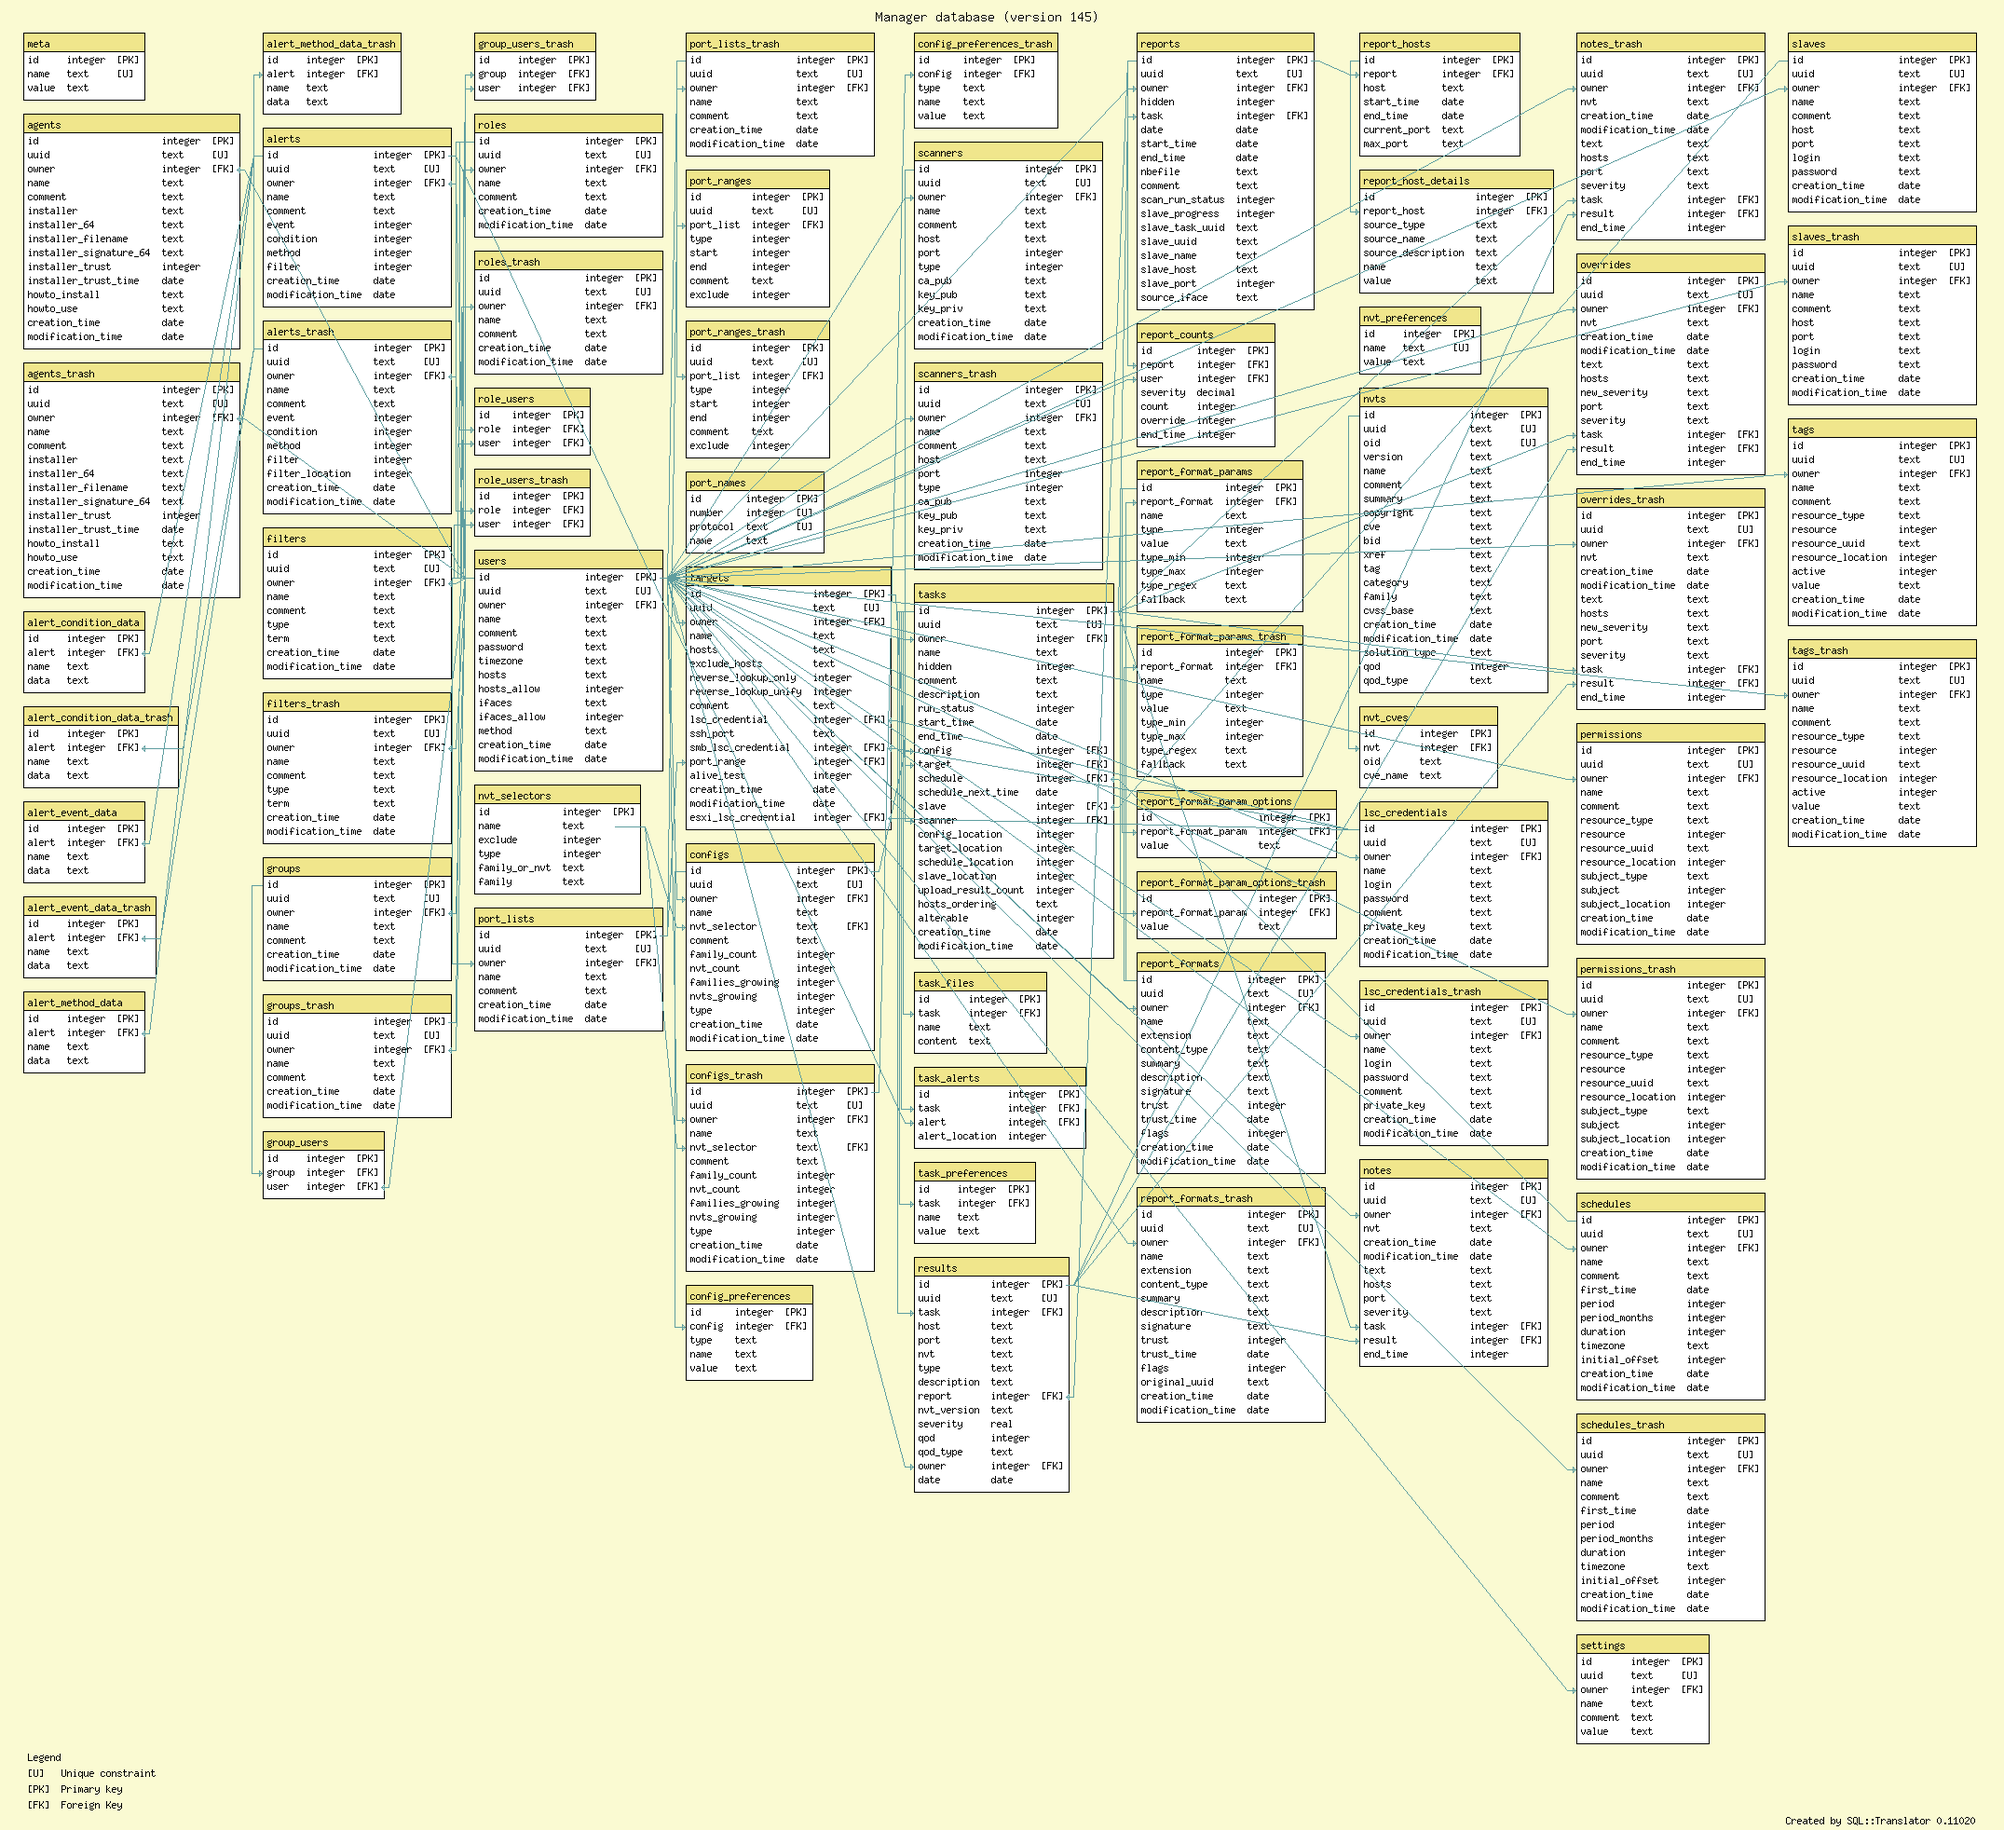
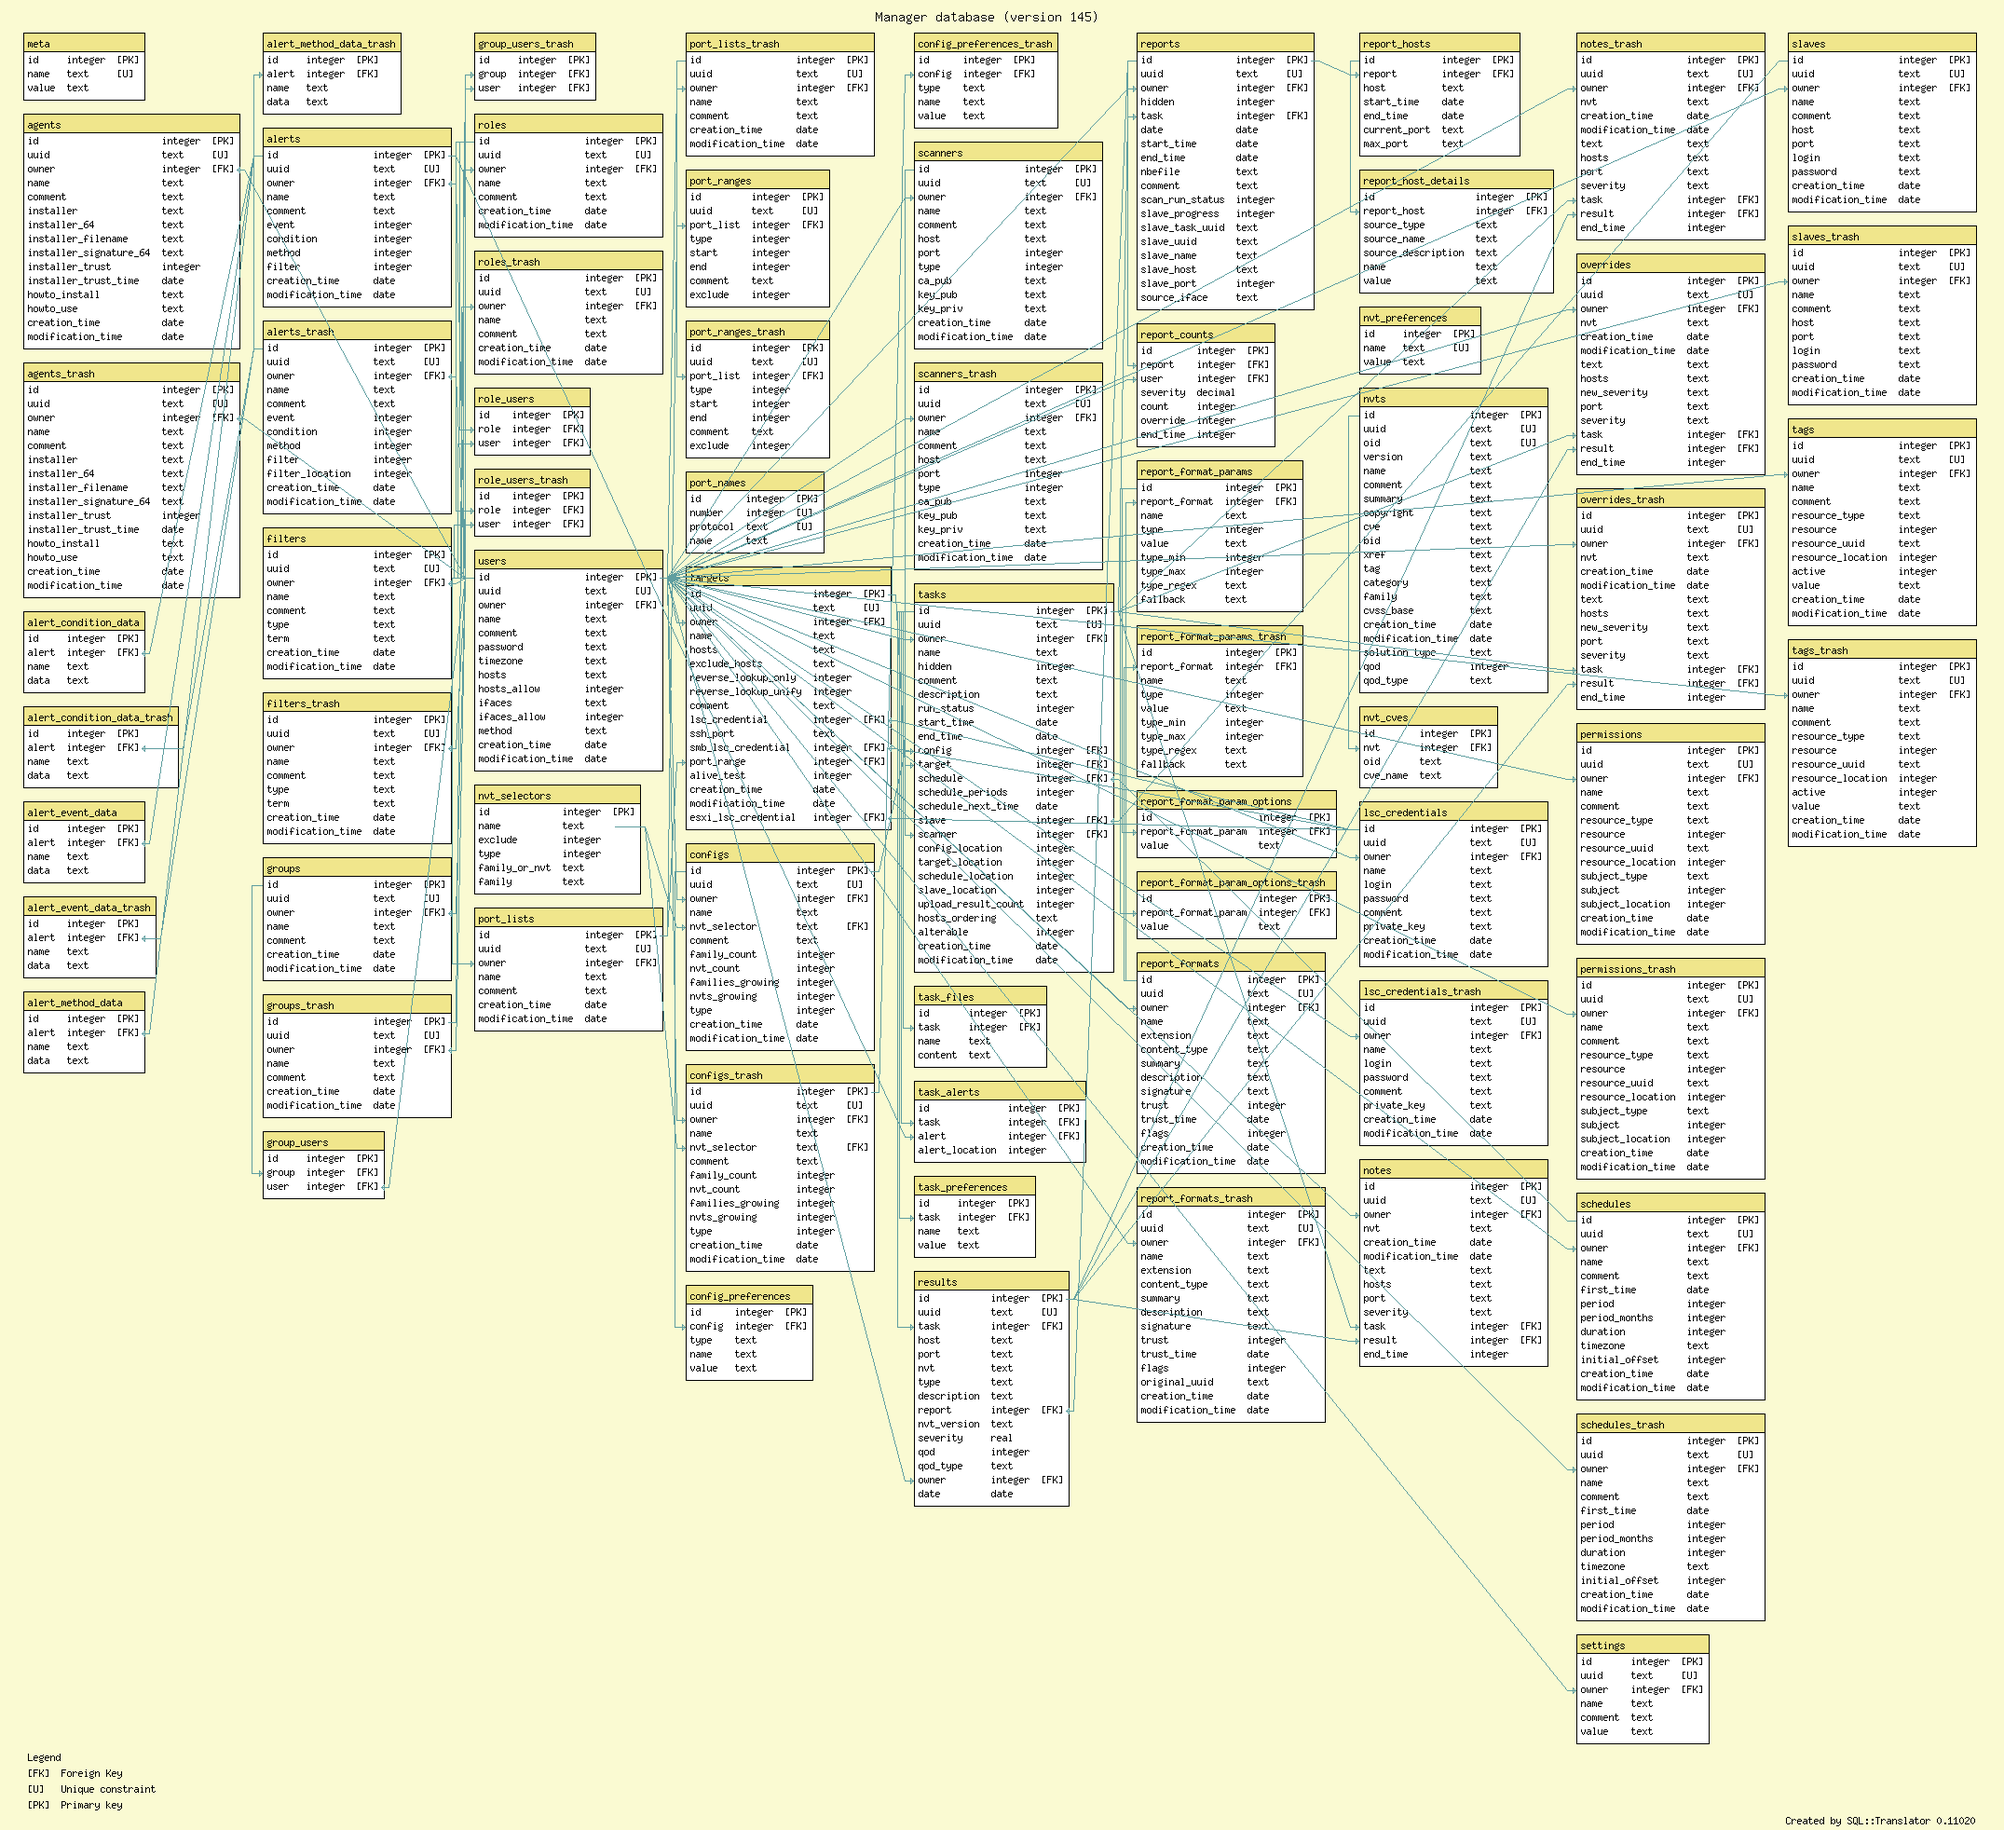
* src/schema_formats/XML/OMP.xml.in (get_tasks, create_task) 	(modify_task): Add SCHEDULE_PERIODS.
* doc/omp.html, doc/omp.rnc: Update from source.

	* doc/db_postgres.sql (tasks): Add schedule_periods.

	* doc/db.png: Update from source.

git-svn-id: svn+ssh://scm.wald.intevation.org/openvas/trunk/openvas-manager@21611 423fd1db-d629-0410-8442-d21db03e70f4

Changed region(s): [[0.4361, 0.4659, 0.5607, 0.7144], [0.4361, 0.8075, 0.5295, 0.8386], [0.0311, 0.9628, 0.0623, 0.9939]]

diff --git a/doc/omp.html b/doc/omp.html
@@ -8725,6 +8725,11 @@ create_target_port_list
           </li></ul>
 </li>
 <li>
+              &lt;<b>schedule_periods</b>&gt;
+              ?<div style="margin-left: 15px; display: inline;">A limit to the number of times the task will be scheduled, or 0 for no limit.</div>
+<ul style="list-style: none"></ul>
+</li>
+<li>
               &lt;<b>slave</b>&gt;
               ?<div style="margin-left: 15px; display: inline;">Slave that the task will run on.</div>
 <ul style="list-style: none"><li>
@@ -8788,6 +8793,7 @@ create_target_port_list
        &amp; create_task_scanner
        &amp; create_task_alert*
        &amp; create_task_schedule?
+       &amp; create_task_schedule_periods?
        &amp; create_task_slave?
        &amp; create_task_observers?
        &amp; create_task_preferences?
@@ -8851,6 +8857,12 @@ create_task_schedule
  = element schedule
      {
        attribute id { uuid }
+     }
+
+create_task_schedule_periods
+ = element schedule_periods
+     {
+       integer
      }
 
 create_task_slave
@@ -22934,11 +22946,18 @@ get_report_formats_response_report_format_count_page
 <li>
               &lt;<b>qod</b>&gt;
               <div style="margin-left: 15px; display: inline;">The quality of detection (QoD) of the NVT.</div>
-<ul style="list-style: none"><li>
+<ul style="list-style: none">
+<li>
               &lt;<b>value</b>&gt;
               <div style="margin-left: 15px; display: inline;">The numeric QoD value.</div>
 <ul style="list-style: none"></ul>
-</li></ul>
+</li>
+<li>
+              &lt;<b>type</b>&gt;
+              <div style="margin-left: 15px; display: inline;">The QoD type.</div>
+<ul style="list-style: none"></ul>
+</li>
+</ul>
 </li>
 <li>
               &lt;<b>description</b>&gt;
@@ -23314,6 +23333,7 @@ get_results_response_result_qod
  = element qod
      {
        get_results_response_result_qod_value
+       &amp; get_results_response_result_qod_type
      }
 
 get_results_response_result_qod_value
@@ -28066,6 +28086,11 @@ get_targets_response_target_count_page
 </ul>
 </li>
 <li>
+              &lt;<b>schedule_periods</b>&gt;
+              <div style="margin-left: 15px; display: inline;">A limit to the number of times the task will be scheduled, or 0 for no limit.</div>
+<ul style="list-style: none"></ul>
+</li>
+<li>
               &lt;<b>slave</b>&gt;
               <div style="margin-left: 15px; display: inline;">The slave that the task will run on.</div>
 <ul style="list-style: none">
@@ -28504,6 +28529,7 @@ get_tasks_response_task
        &amp; get_tasks_response_task_alert
        &amp; get_tasks_response_task_observers
        &amp; get_tasks_response_task_schedule
+       &amp; get_tasks_response_task_schedule_periods
        &amp; get_tasks_response_task_slave
        &amp; get_tasks_response_task_report_count
        &amp; get_tasks_response_task_trend
@@ -28791,6 +28817,12 @@ get_tasks_response_task_schedule_trash
  = element trash
      {
        boolean
+     }
+
+get_tasks_response_task_schedule_periods
+ = element schedule_periods
+     {
+       integer
      }
 
 get_tasks_response_task_slave
@@ -33629,6 +33661,11 @@ modify_tag_active
           </li></ul>
 </li>
 <li>
+              &lt;<b>schedule_periods</b>&gt;
+              <div style="margin-left: 15px; display: inline;">A limit to the number of times the task will be scheduled, or 0 for no limit.</div>
+<ul style="list-style: none"></ul>
+</li>
+<li>
               &lt;<b>scanner</b>&gt;
               <div style="margin-left: 15px; display: inline;">Task scanner.</div>
 <ul style="list-style: none"><li>
@@ -33687,6 +33724,7 @@ modify_tag_active
            | modify_task_observers
            | modify_task_preferences
            | modify_task_schedule
+           | modify_task_schedule_periods
            | modify_task_scanner
            | modify_task_slave
            | modify_task_file )
@@ -33745,6 +33783,12 @@ modify_task_schedule
  = element schedule
      {
        attribute id { uuid }
+     }
+
+modify_task_schedule_periods
+ = element schedule_periods
+     {
+       integer
      }
 
 modify_task_scanner
